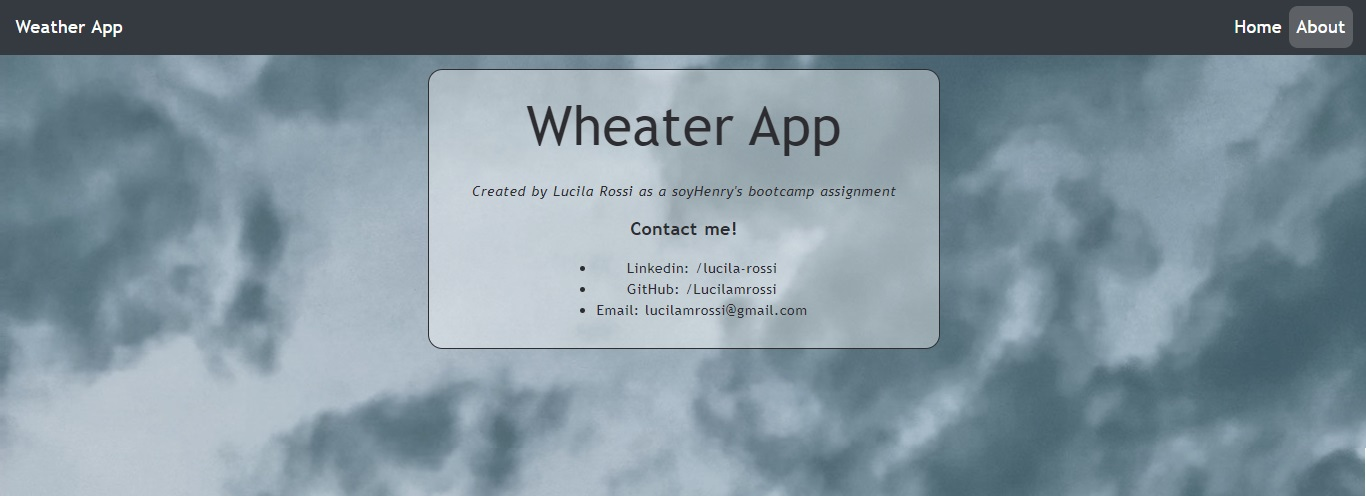
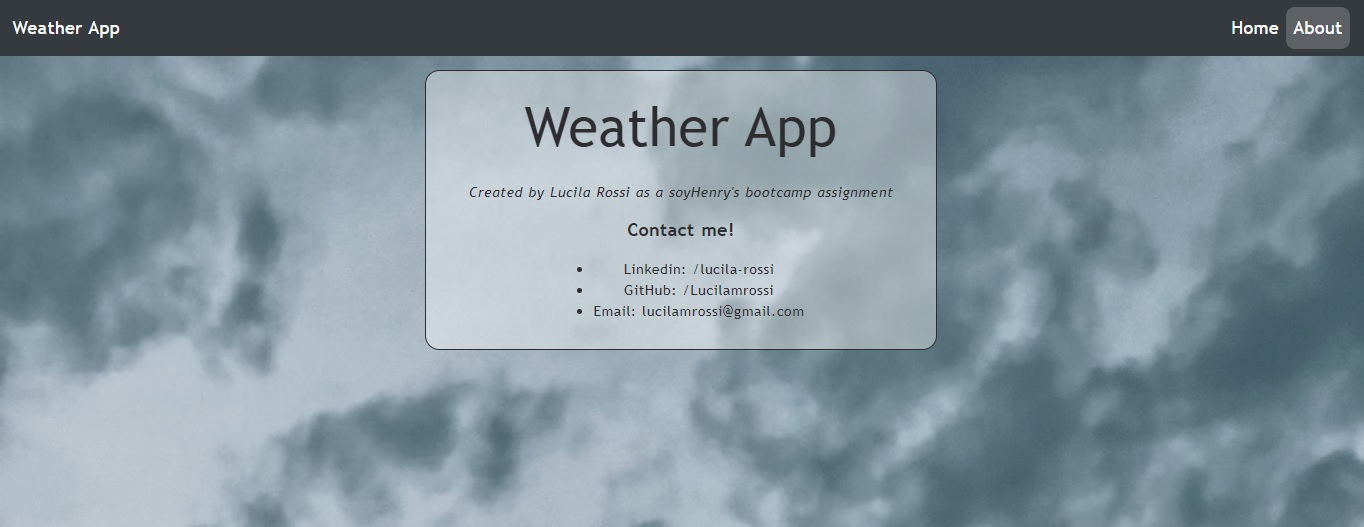
Fix errors

diff --git a/src/containers/About.jsx b/src/containers/About.jsx
@@ -5,7 +5,7 @@ export default function About () {
     return (
         <div style={{display: 'flex', justifyContent: 'center'}}>
             <div className="container-about">
-                <p style={{fontSize: '60px'}} >Wheater App</p>
+                <p style={{fontSize: '60px'}} >Weather App</p>
                 <p><i>Created by Lucila Rossi as a <a href='https://www.soyhenry.com/'>soyHenry's</a> bootcamp assignment</i></p>
                 <p style={{fontSize: '20px'}}><b>Contact me!</b></p>
                 <ul style={{width: 'fit-content'}}>

diff --git a/src/components/Card.jsx b/src/components/Card.jsx
@@ -7,7 +7,7 @@ export default function Card ({min, max, name, img, onClose, id}) {
     return (
       <div className="card">
         <div id="closeIcon" >
-            <button onClick={onClose}><img src={logo}/></button>
+            <button onClick={onClose}><img src={logo} alt="not found"/></button>
         </div>
         <div className="card-body">
           <div className="card-title">

diff --git a/README.md b/README.md
@@ -13,7 +13,7 @@
 5. Run "npm start" and enjoy the app!
 
 ## Some previews!
-> Check the<a href="https://vimeo.com/572357711" target="blank"> video!</a>
+> Check the<a href="https://vimeo.com/572410575" target="blank"> video!</a>
 
 1. Home page as soon as you enter the webSite
 <p align="center">
